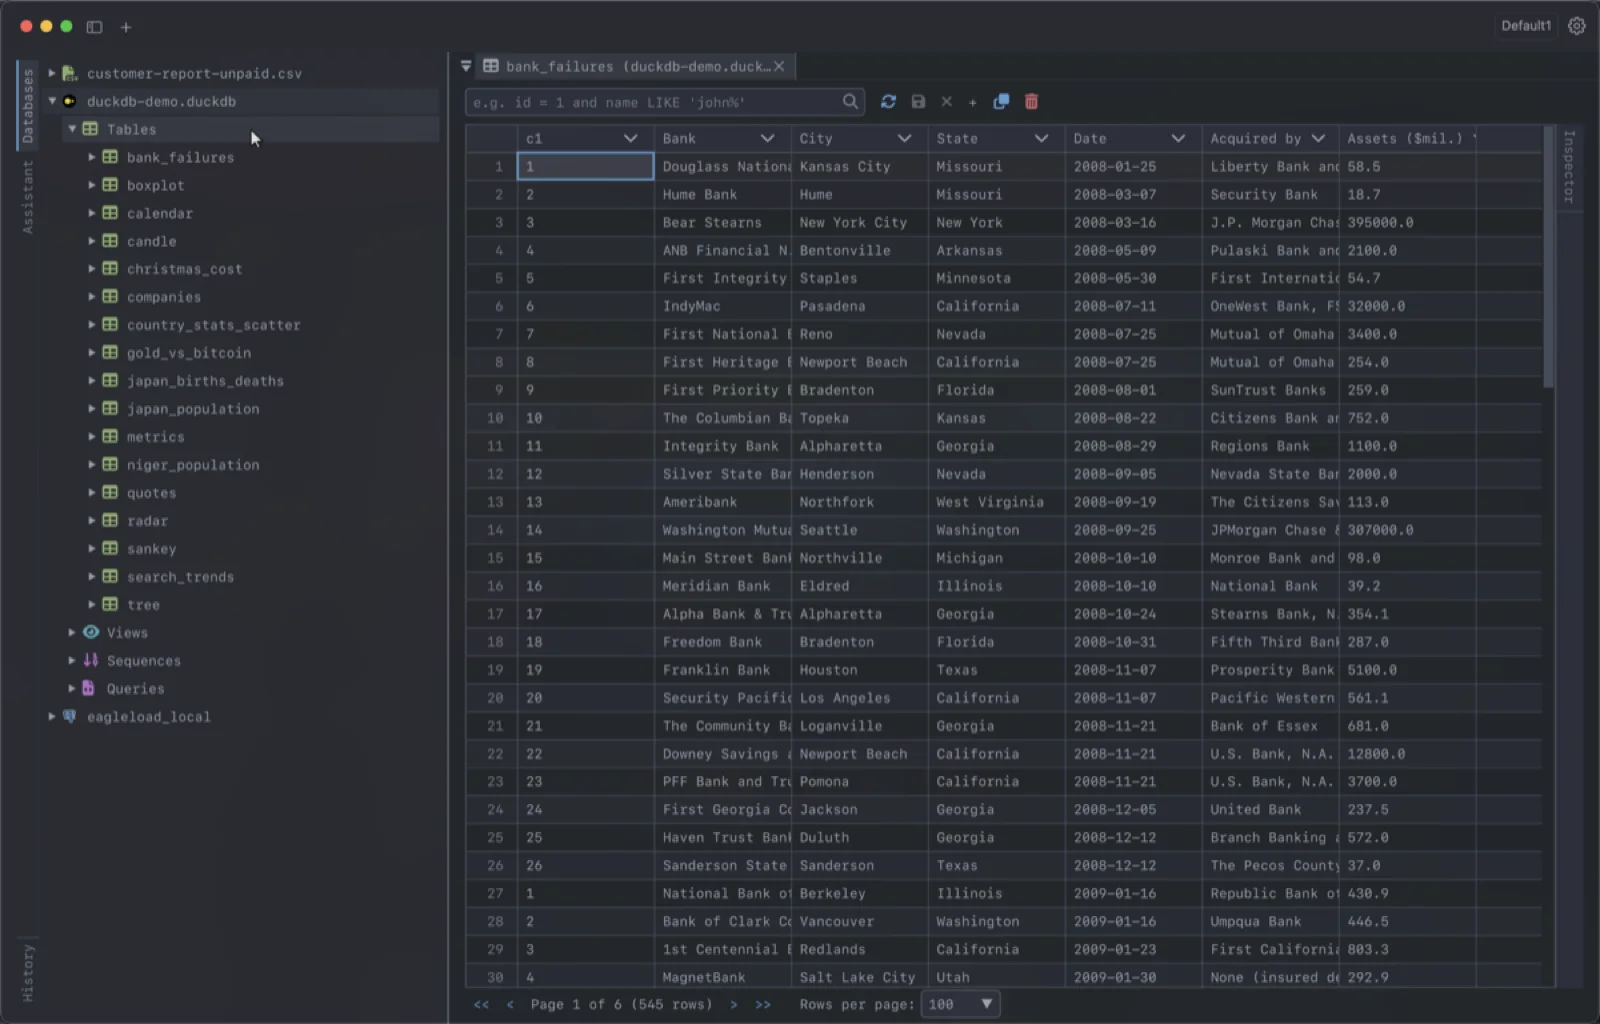
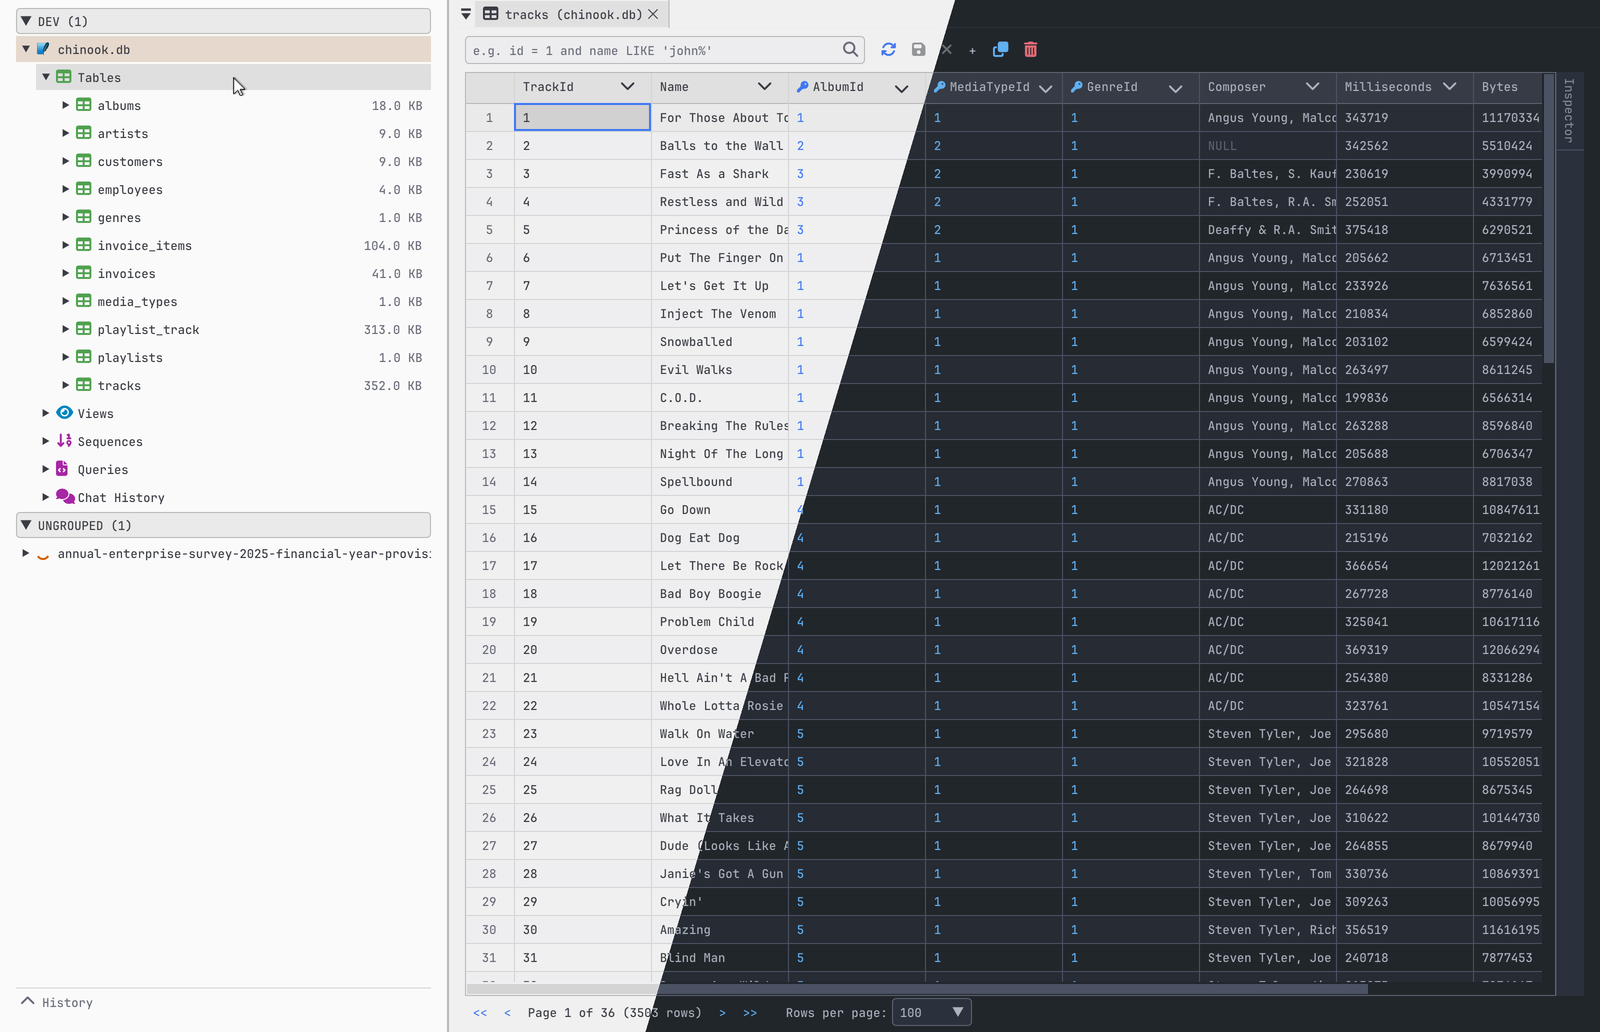
readme: 2x hero shot with jetbrains mono (#62)
* readme: 2x hero shot with jetbrains mono; DEARSQL_SHOT_TABLE

* readme: hero split light/dark

diff --git a/tests/ui/docs_shots.cpp b/tests/ui/docs_shots.cpp
@@ -12,6 +12,7 @@
 #include "ui/settings_dialog.hpp"
 #include "ui/tab/sql_editor_tab.hpp"
 #include "ui/tab_manager.hpp"
+#include <algorithm>
 #include <chrono>
 #include <cstdlib>
 #include <format>
@@ -175,8 +176,13 @@ void RegisterDocsShots(ImGuiTestEngine* engine) {
             return;
         }
         auto* node = dynamic_cast<IDatabaseNode*>(db.get());
-        Application::getInstance().getTabManager()->createTableViewerTab(node,
-                                                                         node->getTables().front());
+        // DEARSQL_SHOT_TABLE picks a wider table (the readme hero)
+        const auto& tables = node->getTables();
+        const char* want = std::getenv("DEARSQL_SHOT_TABLE");
+        const auto it = std::ranges::find_if(
+            tables, [&](const auto& tbl) { return want && tbl.name == want; });
+        Application::getInstance().getTabManager()->createTableViewerTab(
+            node, it != tables.end() ? *it : tables.front());
         expandInSidebar(ctx, db);
         ctx->Yield(120); // let the first page of rows load
         holdForScreenshot(ctx);
